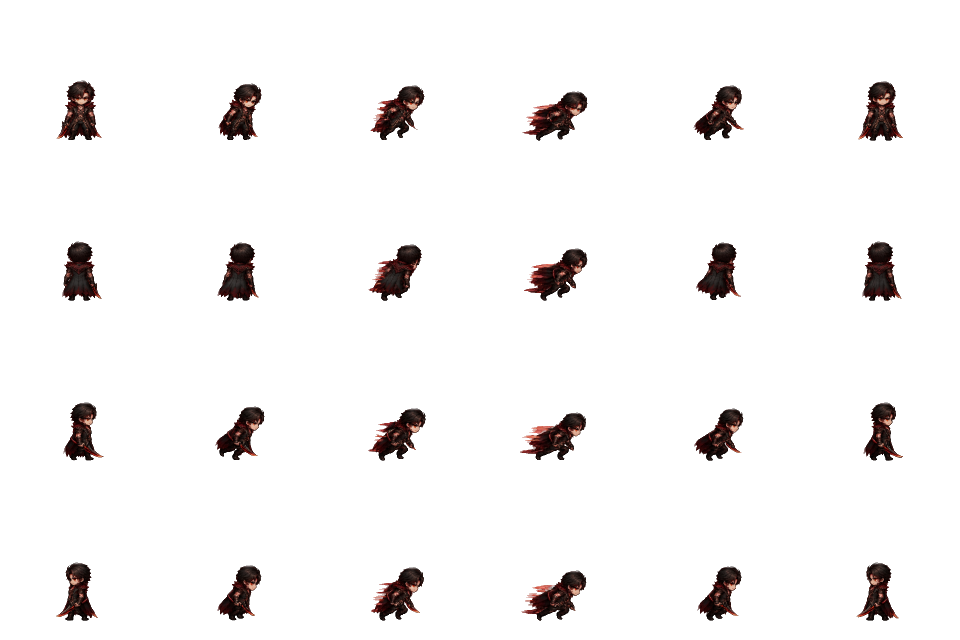
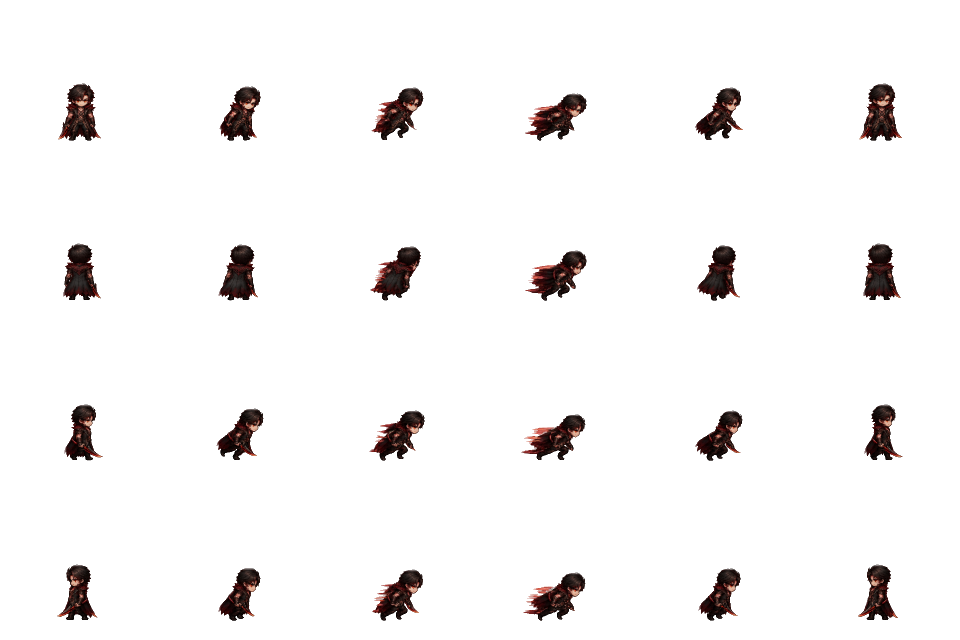
WR polish 2 (owner): attack / skill frames no longer look bigger than the walk — build-player headMatch sizes every sheet by the blend of body height and head width (the AI sheets draw a bigger head on a shorter body in attack poses)

diff --git a/tools/build-player.js b/tools/build-player.js
@@ -114,7 +114,8 @@ PRESETS.be = { out: 'assets/player/be', nearestBody: true, sheets: {
 // Two kinds of source: WALK / HIT / DASH / ATK1 / ATK2 have real alpha (the body left ~90% opaque + a faint red haze),
 // the skill sheets are opaque fake checkerboard. opaque: alpha >= min -> fully opaque, below `haze` -> gone.
 const WR = 'desgin/class cr/UB/WR/';
-PRESETS.wr = { out: 'assets/player/wr', nearestBody: true, opaque: { min: 150, haze: 60 }, sheets: {
+// headMatch: the attack / skill sheets were drawn with a bigger head than the walk -> sized by head width, not body height
+PRESETS.wr = { out: 'assets/player/wr', nearestBody: true, headMatch: true, opaque: { min: 150, haze: 60 }, sheets: {
   walk: [WR + 'WALK.png', 4],
   atk1: [WR + 'ATK1.png', 4],
   atk2: [WR + 'ATK2.png', 4],
@@ -850,8 +851,19 @@ function liftFx(target, rows, sides, { rule = 'sat', fringe = 2, minFx = 25, str
   fs.writeFileSync(metaFile, JSON.stringify(meta, null, 1));
   console.log('   fx strip', strip.name, 'cols', cols.join(','), 'from row', rightRow);
 }
+// widest opaque run in the top 22% of a frame's body (the hair / head) — a size measure that ignores the pose below
+function headWidth(f) {
+  const d = f.data, W = f.width;
+  let top = -1, bot = -1;
+  for (let y = 0; y < f.height; y++) for (let x = 0; x < W; x++) { const i = (y * W + x) * 4; if (d[i + 3] > 200 && d[i] + d[i + 1] + d[i + 2] < 150) { if (top < 0) top = y; bot = y; } }
+  if (top < 0) return 0;
+  let best = 0;
+  for (let y = top; y < top + (bot - top) * 0.22; y++) { let a = -1, b = -1; for (let x = 0; x < W; x++) if (d[(y * W + x) * 4 + 3] > 200) { if (a < 0) a = x; b = x; } best = Math.max(best, b - a); }
+  return best;
+}
 function buildPreset(key) {
-const { out: outRel, sheets: SHEETS, facing: FACING, nearestBody, bg, edgeFade, splitFeather, cutFeather, opaque } = PRESETS[key];
+const { out: outRel, sheets: SHEETS, facing: FACING, nearestBody, bg, edgeFade, splitFeather, cutFeather, opaque, headMatch } = PRESETS[key];
+let headRef = null; // headMatch: the first sheet's head width (output px)
 FEATHER = cutFeather || 4;
 const OUT = path.join(ROOT, outRel);
 fs.mkdirSync(OUT, { recursive: true });
@@ -885,7 +897,15 @@ for (const [name, [file, rows, opt = {}]] of Object.entries(SHEETS)) {
   }
   // one measured factor per sheet: the neutral body always becomes STD.bodyHeight
   neutral.sort((p, q) => p - q);
-  const scale = STD.bodyHeight / neutral[neutral.length >> 1];
+  let scale = STD.bodyHeight / neutral[neutral.length >> 1];
+  // headMatch: AI sheets draw the same character with a different head / body ratio per sheet (the attack sheets of
+  // 'wr' looked ~20% bigger than the walk). Size every sheet so its neutral HEAD WIDTH equals the first sheet's.
+  if (headMatch) {
+    const heads = cells.filter((a, idx) => a && idx % COLS === 0 && Math.floor(idx / COLS) % 4 < 2).map((a) => headWidth(a.img)).filter((w) => w > 0).sort((p, q) => p - q);
+    const src = heads[heads.length >> 1];
+    // blend: body height alone made the attack poses ~10-20% too big, head width alone ~10% too small -> geometric mean
+    if (src) { if (headRef === null) headRef = src * scale; else scale = Math.sqrt(scale * (headRef / src)); }
+  }
   const sheet = png.create(CW * COLS, CH * rows);
   cells.forEach((a, idx) => {
     if (!a) return;

diff --git a/CLAUDE.md b/CLAUDE.md
@@ -1817,3 +1817,8 @@ Push to GitHub (`origin` = github.com/jepzaze6665-dev/EO-ver0.1, branch `main`) 
   116.5 s, all WIN. Fixes (owner): WR basic slash drawn further out (44 / 50 px); WR DASH sheet dashes RIGHT in every row -> preset
   facing right 2 / left 2 mirrored; return stone props gate_ret* had black patches (glow painted on the black sheet) ->
   extract-props GLOW_FROM_BLACK (near-black / warm-dark halo -> colour-to-alpha against black, soft alpha, no drawn outline).
+  WR polish 2 (owner: "bigger when attacking"): build-player preset option `headMatch` — every sheet's scale = geometric mean of
+  the body-height scale and the scale that makes its neutral HEAD WIDTH equal the first sheet's (walk). The AI attack / skill sheets
+  draw a bigger head on a shorter body: body height alone made them 10-20% too big (ATK1 head 29 px vs walk 24), head width alone too
+  small. Used by 'wr'. Basic attacks draw no extra slash strip; walk / run have a step bounce (bob 2 / 3) — the AI walk sheet moves
+  the legs ~1/3 as much as the other Umbral classes (a new WALK sheet from the owner would fix it properly).
